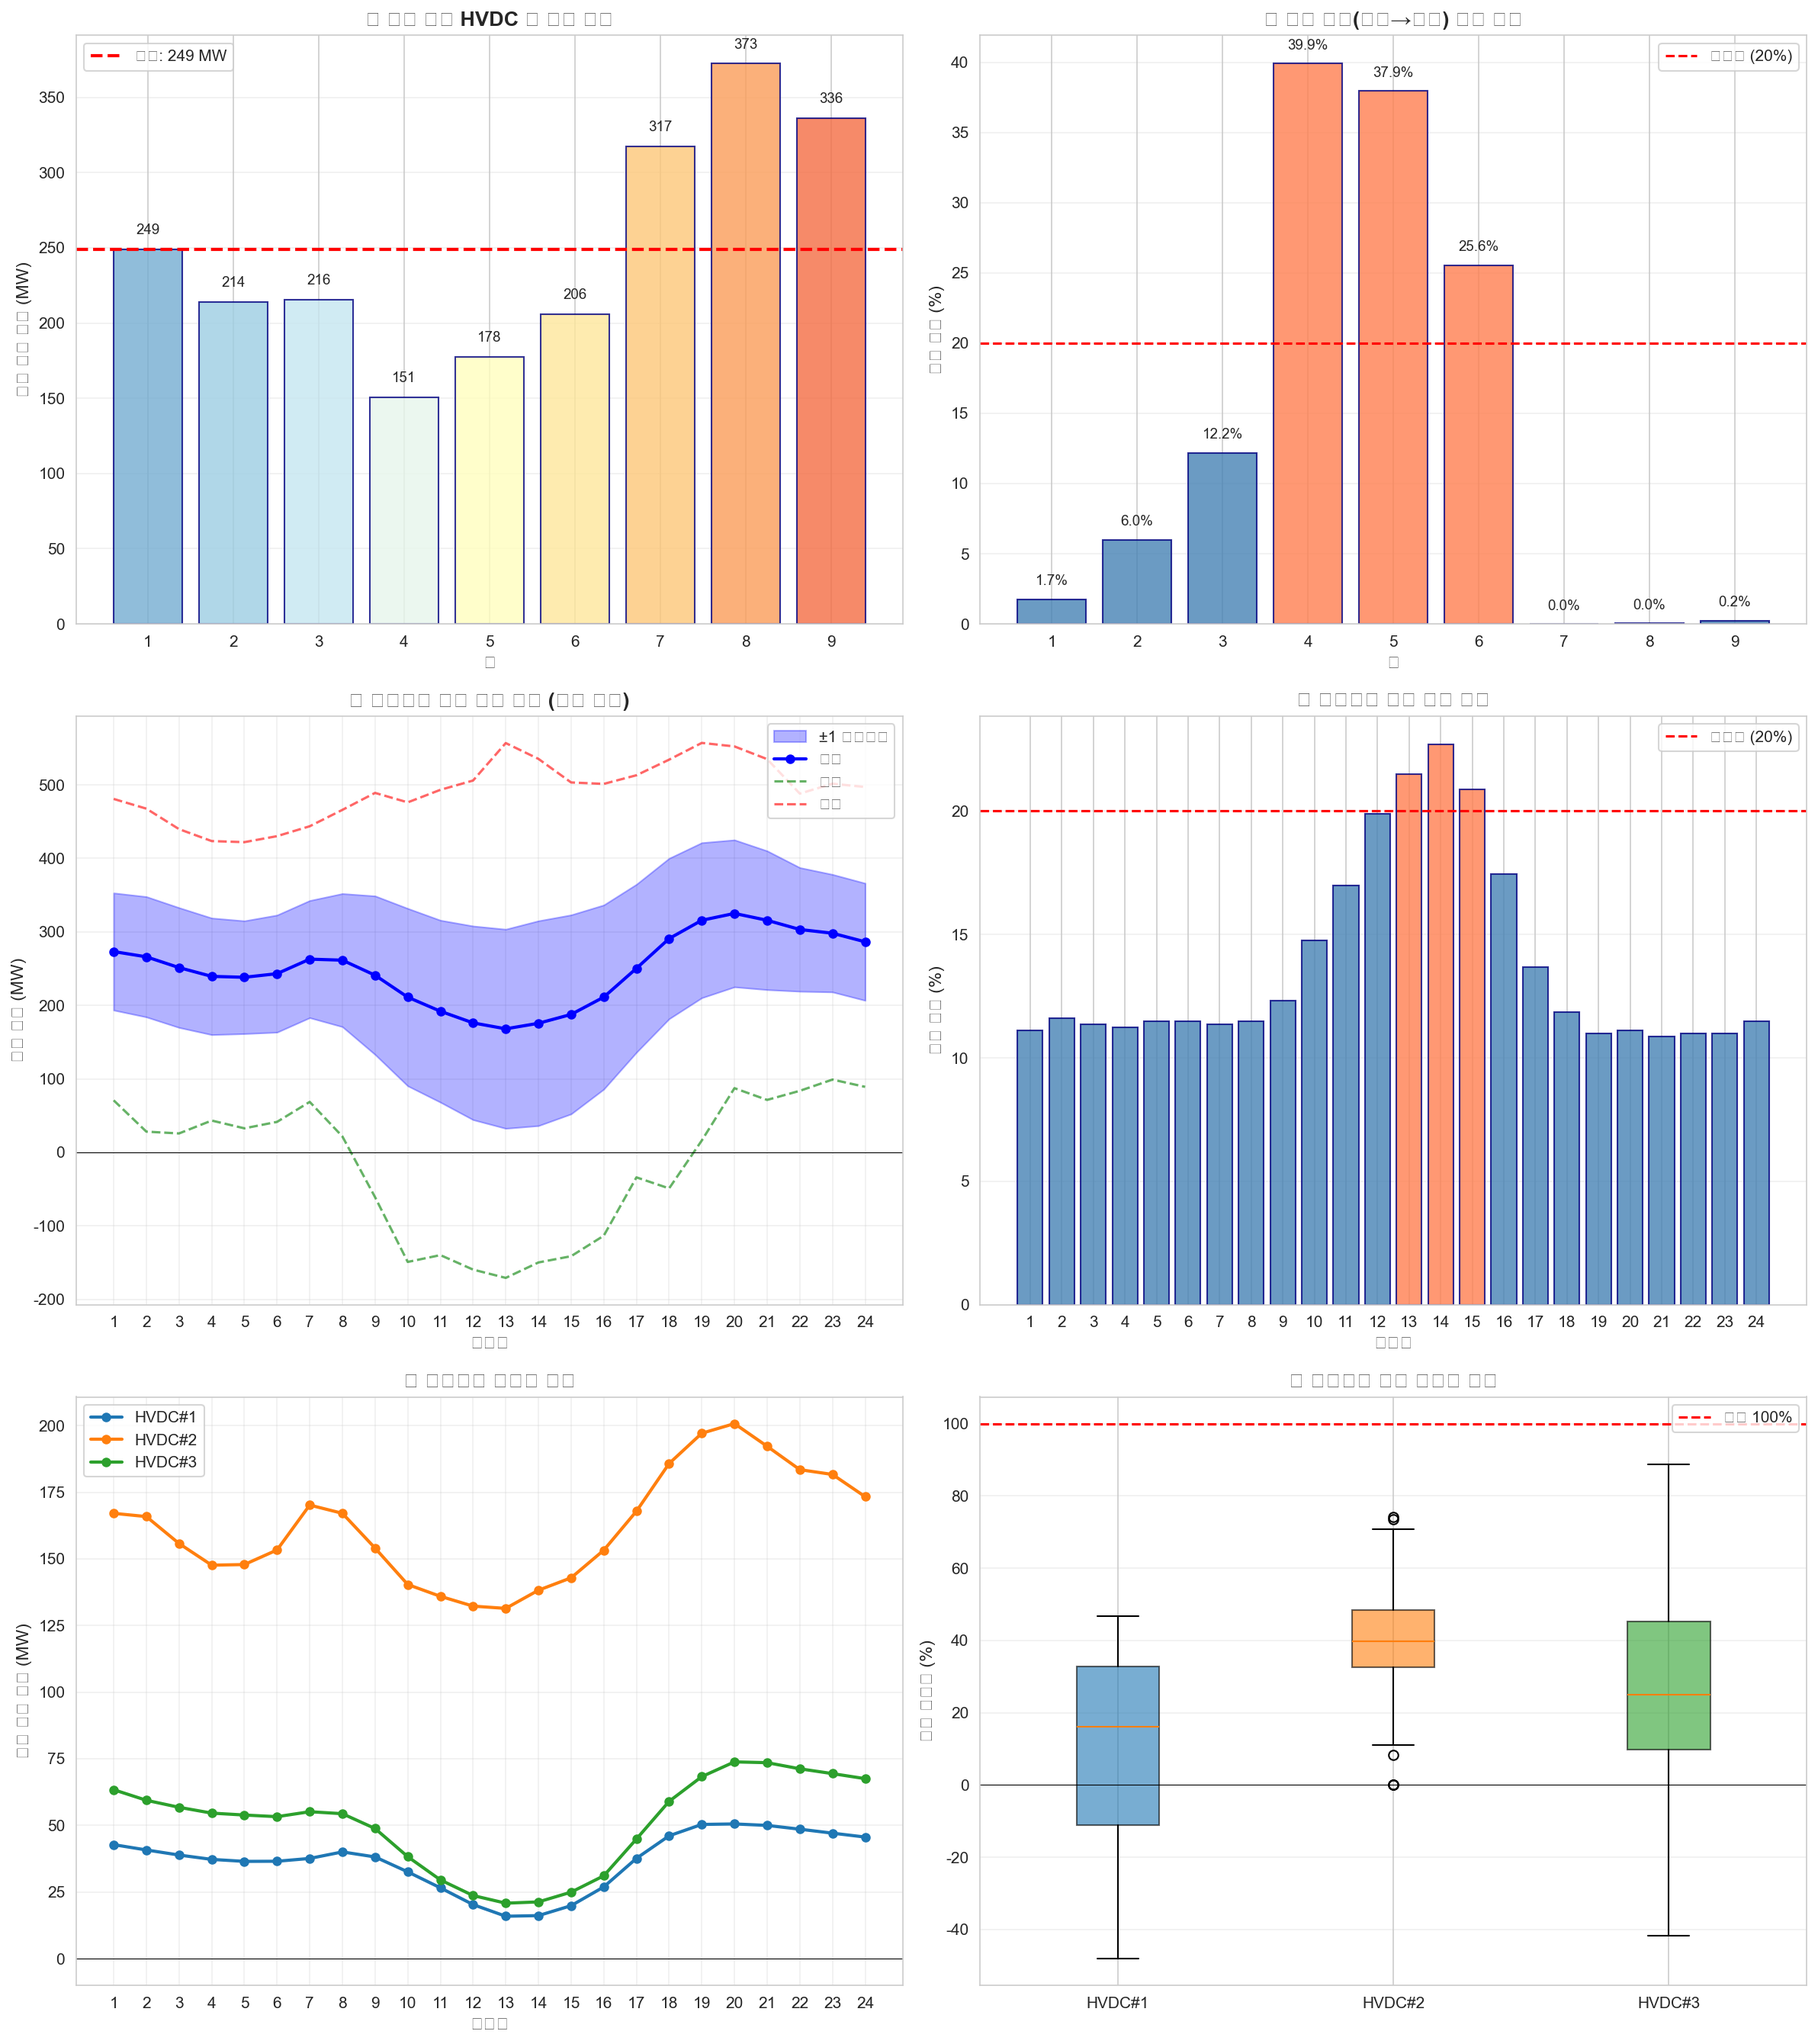
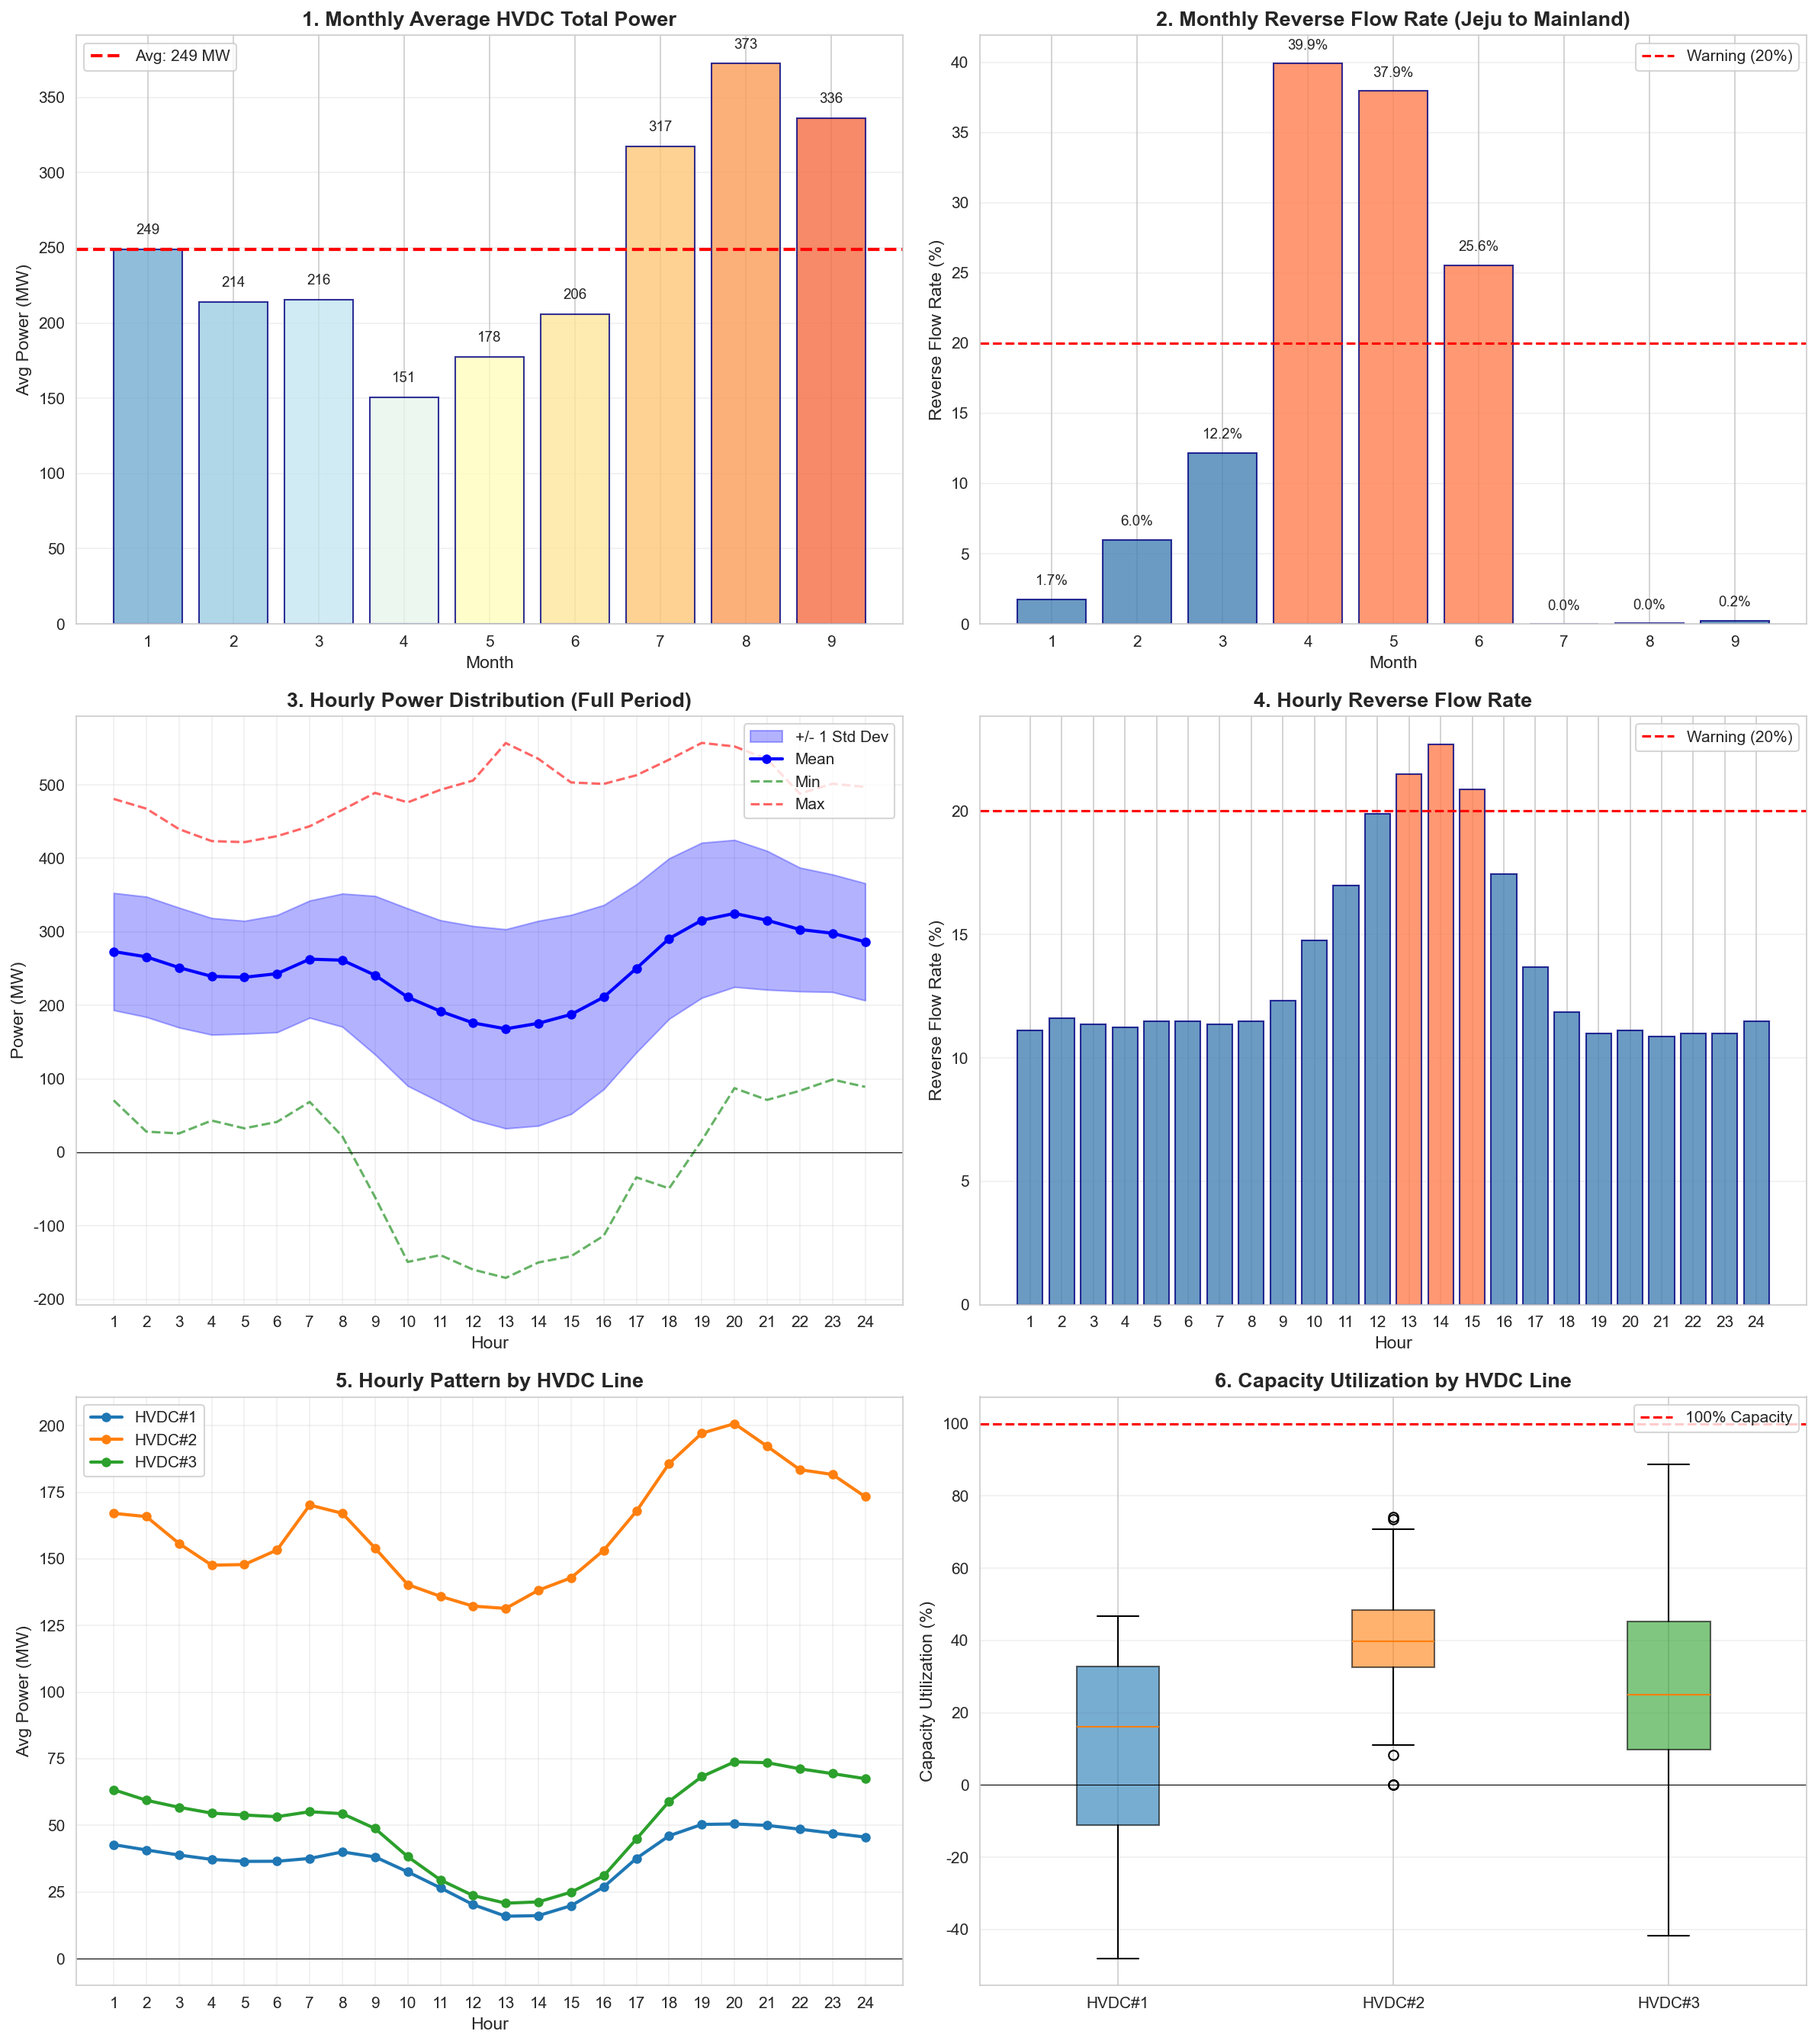
Add analysis report and fix visualization fonts
- Add HVDC_Analysis_Report.md with detailed analysis results
- Recreate visualizations with English labels (fixed font issue)
- Include monthly patterns, reverse flow analysis, capacity utilization

Key findings documented:
- Spring (Apr-May): 38-40% reverse flow rate
- Summer (Jul-Aug): 0% reverse flow, 345MW avg
- HVDC#1 handles 34.7% of all reverse flow
- Peak hours 13-15h have >20% reverse flow rate

🤖 Generated with [Claude Code](https://claude.com/claude-code)

diff --git a/HVDC_Analysis_Report.md b/HVDC_Analysis_Report.md
@@ -1,0 +1,129 @@
+# Jeju HVDC Analysis Report
+
+**Analysis Period**: 2025-01-01 ~ 2025-09-30 (273 days)
+
+---
+
+## 1. Seasonal Patterns (Key Findings)
+
+| Season | Avg Power (MW) | Reverse Flow Rate | Characteristics |
+|--------|----------------|-------------------|-----------------|
+| **Summer (Jul-Aug)** | 345 | 0% | Maximum demand due to cooling |
+| **Spring (Apr-May)** | 164 | **38-40%** | Highest reverse flow, curtailment concentrated |
+| **Winter (Jan-Mar)** | 226 | 6.6% | Stable due to heating demand |
+
+### Monthly Details
+
+| Month | Avg (MW) | Std Dev | Min | Max | Reverse Rate |
+|-------|----------|---------|-----|-----|--------------|
+| Jan | 249.0 | 75.9 | -69 | 377 | 1.7% |
+| Feb | 214.2 | 84.1 | -84 | 380 | 6.0% |
+| Mar | 215.5 | 88.1 | -59 | 369 | 12.2% |
+| Apr | 150.5 | 111.4 | -171 | 350 | **39.9%** |
+| May | 177.6 | 99.7 | -135 | 354 | **37.9%** |
+| Jun | 205.8 | 86.4 | -149 | 443 | 25.6% |
+| Jul | 317.5 | 85.0 | 122 | 535 | 0.0% |
+| Aug | 372.5 | 72.6 | 166 | 557 | 0.0% |
+| Sep | 336.2 | 80.4 | 96 | 534 | 0.2% |
+
+---
+
+## 2. Reverse Flow Analysis
+
+### By HVDC Line
+
+| Line | Capacity | Occurrence | Rate | Avg Power | Max Power |
+|------|----------|------------|------|-----------|-----------|
+| **HVDC#1** | 300 MW | 2,271 times | **34.7%** | -38.4 MW | -144.2 MW |
+| HVDC#2 | 400 MW | 3 times | 0.0% | -0.0 MW | -0.0 MW |
+| HVDC#3 | 200 MW | 425 times | 6.5% | -32.7 MW | -83.4 MW |
+
+### By Hour (High Risk Hours: 13-15h with >20%)
+
+| Hour | Reverse Rate | Risk Level |
+|------|-------------|------------|
+| 10h | 14.8% | Medium |
+| 11h | 17.0% | Medium |
+| 12h | 19.9% | Medium |
+| **13h** | **21.5%** | High |
+| **14h** | **22.7%** | High |
+| **15h** | **20.9%** | High |
+| 16h | 17.5% | Medium |
+
+### Key Statistics
+- **Days with reverse flow**: 57 days / 273 days (20.9%)
+- **Severe reverse days** (6+ hours): 6 days
+
+---
+
+## 3. Hourly Patterns
+
+| Time Period | Avg (MW) | Std Dev | Min | Max | Characteristics |
+|-------------|----------|---------|-----|-----|-----------------|
+| **Peak (18-22h)** | 310.1 | 99.6 | -49 | 557 | Evening demand maximum |
+| Off-peak (23-9h) | 260.1 | 85.8 | -61 | 502 | Stable reception |
+| **Light load (10-17h)** | 196.5 | 130.8 | -171 | 557 | Solar generation reduces demand |
+
+### Peak Hour Distribution
+- **Maximum power hours**: 20h (53 days), 19h (33 days), 21h (29 days)
+- **Minimum power hours**: 13h (56 days), 14h (40 days), 12h (32 days)
+
+---
+
+## 4. Capacity Utilization
+
+| Line | Capacity | Avg Util | Max Util | Notes |
+|------|----------|----------|----------|-------|
+| HVDC#1 | 300 MW | 12.3% | 46.8% | Mainly handles reverse flow |
+| HVDC#2 | 400 MW | 40.5% | 74.2% | Primary power reception |
+| **HVDC#3** | 200 MW | 25.3% | **88.8%** | Highest utilization |
+
+---
+
+## 5. Correlation Analysis
+
+| Pair | Correlation | Interpretation |
+|------|-------------|----------------|
+| HVDC#2 - HVDC#3 | **0.602** | Strong positive - operated together |
+| HVDC#1 - HVDC#3 | 0.331 | Moderate |
+| HVDC#1 - HVDC#2 | 0.198 | Weak - independent operation |
+
+---
+
+## 6. Weekday Analysis
+
+| Day | Avg (MW) | Std Dev | Reverse Rate |
+|-----|----------|---------|--------------|
+| Mon | 244.9 | 118.3 | 14.7% |
+| Tue | 247.1 | 112.1 | 13.7% |
+| Wed | 252.2 | 114.3 | 13.7% |
+| Thu | 248.5 | 115.8 | 14.0% |
+| Fri | 252.8 | 109.6 | 12.9% |
+| Sat | 250.1 | 114.2 | 13.2% |
+| Sun | 249.7 | 110.4 | 13.8% |
+
+**Weekday vs Weekend**: No significant difference (249.1 MW vs 249.9 MW)
+
+---
+
+## 7. Key Insights
+
+### Problem Areas
+1. **Spring (Apr-May) curtailment concentration**: Increased solar/wind generation + decreased demand = surge in reverse flow
+2. **Daytime (10-17h) challenge**: Solar peak coincides with low demand
+3. **HVDC#1 handles reverse flow**: Most reverse flow goes through HVDC#1
+
+### Positive Findings
+1. **Summer stability**: No reverse flow due to cooling demand
+2. **HVDC#3 high utilization**: Most efficiently used line (88.8% max)
+3. **Strong HVDC#2-#3 coordination**: Correlation of 0.60 indicates coordinated operation
+
+### Recommendations
+1. Focus curtailment management on **April-May, 10-17h**
+2. Consider ESS deployment for peak shaving during **13-15h**
+3. Optimize HVDC#1 for bidirectional flow capacity
+4. Explore demand response programs for spring low-demand periods
+
+---
+
+*Report generated: 2025*
